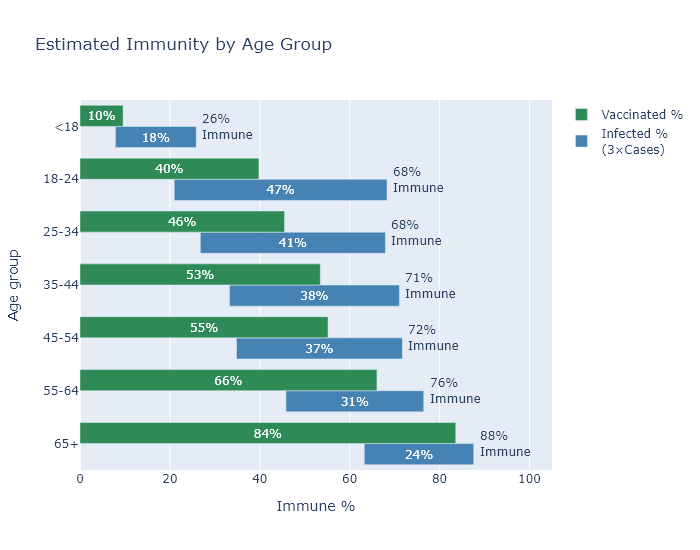
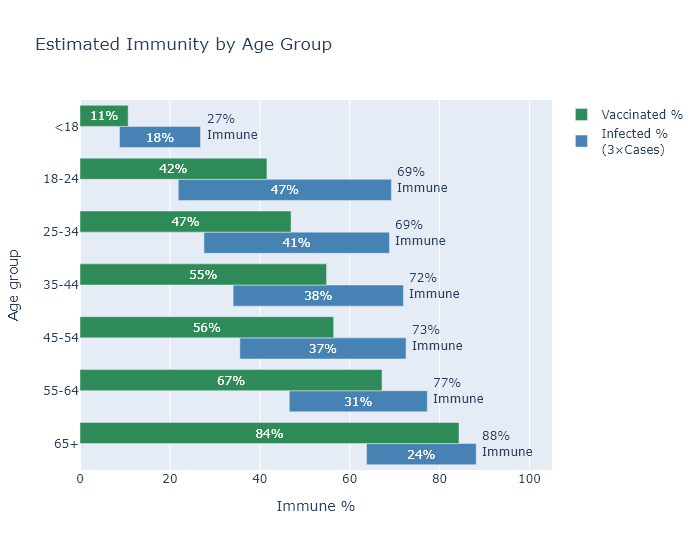
Total immunity update
Mainly to check that this script still worked after vaccine tableau updates.

diff --git a/docs/assets/plotly/Immune-Age.html b/docs/assets/plotly/Immune-Age.html
@@ -2,6 +2,6 @@
 <head><meta charset="utf-8" /></head>
 <body>
     <div>                        <script type="text/javascript">window.PlotlyConfig = {MathJaxConfig: 'local'};</script>
-        <script src="https://cdn.plot.ly/plotly-latest.min.js"></script>                <div id="8dd0fb88-a6f3-461a-af77-f9fe43fd89b9" class="plotly-graph-div" style="height:550px; width:700px;"></div>            <script type="text/javascript">                                    window.PLOTLYENV=window.PLOTLYENV || {};                                    if (document.getElementById("8dd0fb88-a6f3-461a-af77-f9fe43fd89b9")) {                    Plotly.newPlot(                        "8dd0fb88-a6f3-461a-af77-f9fe43fd89b9",                        [{"alignmentgroup": "True", "base": [63.285488848152795, 45.911691126422916, 34.926001778865675, 33.36171671776336, 26.88652940800136, 21.08961235703292, 8.015904863475887], "hovertemplate": "=Est Infected %<br>Base=%{base}<br>Immune %=%{x}<br>Age group=%{y}<br>Label=%{text}<extra></extra>", "insidetextanchor": "middle", "legendgroup": "Est Infected %", "marker": {"color": "steelblue"}, "name": "Infected %<br>(3&times;Cases)", "offsetgroup": "Est Infected %", "orientation": "h", "showlegend": true, "text": ["24%", "31%", "37%", "38%", "41%", "47%", "18%"], "textposition": "inside", "type": "bar", "x": [24.349247374242076, 30.6588867525126, 36.91166186797313, 37.84033839280215, 41.1984023110882, 47.35395972685324, 17.998166868764898], "xaxis": "x", "y": ["65+", "55-64", "45-54", "35-44", "25-34", "18-24", "<18"], "yaxis": "y"}, {"alignmentgroup": "True", "base": [0.0, 0.0, 0.0, 0.0, 0.0, 0.0, 0.0], "hovertemplate": "=Vaccinated %<br>Base=%{base}<br>Immune %=%{x}<br>Age group=%{y}<br>Label=%{text}<extra></extra>", "insidetextanchor": "middle", "legendgroup": "Vaccinated %", "marker": {"color": "seagreen"}, "name": "Vaccinated %", "offsetgroup": "Vaccinated %", "orientation": "h", "showlegend": true, "text": ["84%", "66%", "55%", "54%", "46%", "40%", "10%"], "textposition": "inside", "type": "bar", "x": [83.65480401923332, 66.21135568239026, 55.36047201905204, 53.67100761999676, 45.72414775231753, 40.05925658912305, 9.775275207137497], "xaxis": "x", "y": ["65+", "55-64", "45-54", "35-44", "25-34", "18-24", "<18"], "yaxis": "y"}],                        {"annotations": [{"align": "left", "showarrow": false, "text": "26%<br>Immune", "x": 33.01407173224078, "y": "<18"}, {"align": "left", "showarrow": false, "text": "68%<br>Immune", "x": 75.44357208388615, "y": "18-24"}, {"align": "left", "showarrow": false, "text": "68%<br>Immune", "x": 75.08493171908955, "y": "25-34"}, {"align": "left", "showarrow": false, "text": "71%<br>Immune", "x": 78.20205511056551, "y": "35-44"}, {"align": "left", "showarrow": false, "text": "72%<br>Immune", "x": 78.8376636468388, "y": "45-54"}, {"align": "left", "showarrow": false, "text": "77%<br>Immune", "x": 83.57057787893552, "y": "55-64"}, {"align": "left", "showarrow": false, "text": "88%<br>Immune", "x": 94.63473622239488, "y": "65+"}], "barmode": "group", "height": 550, "legend": {"title": {"text": ""}, "tracegroupgap": 0, "traceorder": "reversed"}, "showlegend": true, "template": {"data": {"bar": [{"error_x": {"color": "#2a3f5f"}, "error_y": {"color": "#2a3f5f"}, "marker": {"line": {"color": "#E5ECF6", "width": 0.5}}, "type": "bar"}], "barpolar": [{"marker": {"line": {"color": "#E5ECF6", "width": 0.5}}, "type": "barpolar"}], "carpet": [{"aaxis": {"endlinecolor": "#2a3f5f", "gridcolor": "white", "linecolor": "white", "minorgridcolor": "white", "startlinecolor": "#2a3f5f"}, "baxis": {"endlinecolor": "#2a3f5f", "gridcolor": "white", "linecolor": "white", "minorgridcolor": "white", "startlinecolor": "#2a3f5f"}, "type": "carpet"}], "choropleth": [{"colorbar": {"outlinewidth": 0, "ticks": ""}, "type": "choropleth"}], "contour": [{"colorbar": {"outlinewidth": 0, "ticks": ""}, "colorscale": [[0.0, "#0d0887"], [0.1111111111111111, "#46039f"], [0.2222222222222222, "#7201a8"], [0.3333333333333333, "#9c179e"], [0.4444444444444444, "#bd3786"], [0.5555555555555556, "#d8576b"], [0.6666666666666666, "#ed7953"], [0.7777777777777778, "#fb9f3a"], [0.8888888888888888, "#fdca26"], [1.0, "#f0f921"]], "type": "contour"}], "contourcarpet": [{"colorbar": {"outlinewidth": 0, "ticks": ""}, "type": "contourcarpet"}], "heatmap": [{"colorbar": {"outlinewidth": 0, "ticks": ""}, "colorscale": [[0.0, "#0d0887"], [0.1111111111111111, "#46039f"], [0.2222222222222222, "#7201a8"], [0.3333333333333333, "#9c179e"], [0.4444444444444444, "#bd3786"], [0.5555555555555556, "#d8576b"], [0.6666666666666666, "#ed7953"], [0.7777777777777778, "#fb9f3a"], [0.8888888888888888, "#fdca26"], [1.0, "#f0f921"]], "type": "heatmap"}], "heatmapgl": [{"colorbar": {"outlinewidth": 0, "ticks": ""}, "colorscale": [[0.0, "#0d0887"], [0.1111111111111111, "#46039f"], [0.2222222222222222, "#7201a8"], [0.3333333333333333, "#9c179e"], [0.4444444444444444, "#bd3786"], [0.5555555555555556, "#d8576b"], [0.6666666666666666, "#ed7953"], [0.7777777777777778, "#fb9f3a"], [0.8888888888888888, "#fdca26"], [1.0, "#f0f921"]], "type": "heatmapgl"}], "histogram": [{"marker": {"colorbar": {"outlinewidth": 0, "ticks": ""}}, "type": "histogram"}], "histogram2d": [{"colorbar": {"outlinewidth": 0, "ticks": ""}, "colorscale": [[0.0, "#0d0887"], [0.1111111111111111, "#46039f"], [0.2222222222222222, "#7201a8"], [0.3333333333333333, "#9c179e"], [0.4444444444444444, "#bd3786"], [0.5555555555555556, "#d8576b"], [0.6666666666666666, "#ed7953"], [0.7777777777777778, "#fb9f3a"], [0.8888888888888888, "#fdca26"], [1.0, "#f0f921"]], "type": "histogram2d"}], "histogram2dcontour": [{"colorbar": {"outlinewidth": 0, "ticks": ""}, "colorscale": [[0.0, "#0d0887"], [0.1111111111111111, "#46039f"], [0.2222222222222222, "#7201a8"], [0.3333333333333333, "#9c179e"], [0.4444444444444444, "#bd3786"], [0.5555555555555556, "#d8576b"], [0.6666666666666666, "#ed7953"], [0.7777777777777778, "#fb9f3a"], [0.8888888888888888, "#fdca26"], [1.0, "#f0f921"]], "type": "histogram2dcontour"}], "mesh3d": [{"colorbar": {"outlinewidth": 0, "ticks": ""}, "type": "mesh3d"}], "parcoords": [{"line": {"colorbar": {"outlinewidth": 0, "ticks": ""}}, "type": "parcoords"}], "pie": [{"automargin": true, "type": "pie"}], "scatter": [{"marker": {"colorbar": {"outlinewidth": 0, "ticks": ""}}, "type": "scatter"}], "scatter3d": [{"line": {"colorbar": {"outlinewidth": 0, "ticks": ""}}, "marker": {"colorbar": {"outlinewidth": 0, "ticks": ""}}, "type": "scatter3d"}], "scattercarpet": [{"marker": {"colorbar": {"outlinewidth": 0, "ticks": ""}}, "type": "scattercarpet"}], "scattergeo": [{"marker": {"colorbar": {"outlinewidth": 0, "ticks": ""}}, "type": "scattergeo"}], "scattergl": [{"marker": {"colorbar": {"outlinewidth": 0, "ticks": ""}}, "type": "scattergl"}], "scattermapbox": [{"marker": {"colorbar": {"outlinewidth": 0, "ticks": ""}}, "type": "scattermapbox"}], "scatterpolar": [{"marker": {"colorbar": {"outlinewidth": 0, "ticks": ""}}, "type": "scatterpolar"}], "scatterpolargl": [{"marker": {"colorbar": {"outlinewidth": 0, "ticks": ""}}, "type": "scatterpolargl"}], "scatterternary": [{"marker": {"colorbar": {"outlinewidth": 0, "ticks": ""}}, "type": "scatterternary"}], "surface": [{"colorbar": {"outlinewidth": 0, "ticks": ""}, "colorscale": [[0.0, "#0d0887"], [0.1111111111111111, "#46039f"], [0.2222222222222222, "#7201a8"], [0.3333333333333333, "#9c179e"], [0.4444444444444444, "#bd3786"], [0.5555555555555556, "#d8576b"], [0.6666666666666666, "#ed7953"], [0.7777777777777778, "#fb9f3a"], [0.8888888888888888, "#fdca26"], [1.0, "#f0f921"]], "type": "surface"}], "table": [{"cells": {"fill": {"color": "#EBF0F8"}, "line": {"color": "white"}}, "header": {"fill": {"color": "#C8D4E3"}, "line": {"color": "white"}}, "type": "table"}]}, "layout": {"annotationdefaults": {"arrowcolor": "#2a3f5f", "arrowhead": 0, "arrowwidth": 1}, "autotypenumbers": "strict", "coloraxis": {"colorbar": {"outlinewidth": 0, "ticks": ""}}, "colorscale": {"diverging": [[0, "#8e0152"], [0.1, "#c51b7d"], [0.2, "#de77ae"], [0.3, "#f1b6da"], [0.4, "#fde0ef"], [0.5, "#f7f7f7"], [0.6, "#e6f5d0"], [0.7, "#b8e186"], [0.8, "#7fbc41"], [0.9, "#4d9221"], [1, "#276419"]], "sequential": [[0.0, "#0d0887"], [0.1111111111111111, "#46039f"], [0.2222222222222222, "#7201a8"], [0.3333333333333333, "#9c179e"], [0.4444444444444444, "#bd3786"], [0.5555555555555556, "#d8576b"], [0.6666666666666666, "#ed7953"], [0.7777777777777778, "#fb9f3a"], [0.8888888888888888, "#fdca26"], [1.0, "#f0f921"]], "sequentialminus": [[0.0, "#0d0887"], [0.1111111111111111, "#46039f"], [0.2222222222222222, "#7201a8"], [0.3333333333333333, "#9c179e"], [0.4444444444444444, "#bd3786"], [0.5555555555555556, "#d8576b"], [0.6666666666666666, "#ed7953"], [0.7777777777777778, "#fb9f3a"], [0.8888888888888888, "#fdca26"], [1.0, "#f0f921"]]}, "colorway": ["#636efa", "#EF553B", "#00cc96", "#ab63fa", "#FFA15A", "#19d3f3", "#FF6692", "#B6E880", "#FF97FF", "#FECB52"], "font": {"color": "#2a3f5f"}, "geo": {"bgcolor": "white", "lakecolor": "white", "landcolor": "#E5ECF6", "showlakes": true, "showland": true, "subunitcolor": "white"}, "hoverlabel": {"align": "left"}, "hovermode": "closest", "mapbox": {"style": "light"}, "paper_bgcolor": "white", "plot_bgcolor": "#E5ECF6", "polar": {"angularaxis": {"gridcolor": "white", "linecolor": "white", "ticks": ""}, "bgcolor": "#E5ECF6", "radialaxis": {"gridcolor": "white", "linecolor": "white", "ticks": ""}}, "scene": {"xaxis": {"backgroundcolor": "#E5ECF6", "gridcolor": "white", "gridwidth": 2, "linecolor": "white", "showbackground": true, "ticks": "", "zerolinecolor": "white"}, "yaxis": {"backgroundcolor": "#E5ECF6", "gridcolor": "white", "gridwidth": 2, "linecolor": "white", "showbackground": true, "ticks": "", "zerolinecolor": "white"}, "zaxis": {"backgroundcolor": "#E5ECF6", "gridcolor": "white", "gridwidth": 2, "linecolor": "white", "showbackground": true, "ticks": "", "zerolinecolor": "white"}}, "shapedefaults": {"line": {"color": "#2a3f5f"}}, "ternary": {"aaxis": {"gridcolor": "white", "linecolor": "white", "ticks": ""}, "baxis": {"gridcolor": "white", "linecolor": "white", "ticks": ""}, "bgcolor": "#E5ECF6", "caxis": {"gridcolor": "white", "linecolor": "white", "ticks": ""}}, "title": {"x": 0.05}, "xaxis": {"automargin": true, "gridcolor": "white", "linecolor": "white", "ticks": "", "title": {"standoff": 15}, "zerolinecolor": "white", "zerolinewidth": 2}, "yaxis": {"automargin": true, "gridcolor": "white", "linecolor": "white", "ticks": "", "title": {"standoff": 15}, "zerolinecolor": "white", "zerolinewidth": 2}}}, "title": {"text": "Estimated Immunity by Age Group"}, "width": 700, "xaxis": {"anchor": "y", "domain": [0.0, 1.0], "range": [0, 105], "title": {"text": "Immune %"}}, "yaxis": {"anchor": "x", "domain": [0.0, 1.0], "title": {"text": "Age group"}}},                        {"responsive": true}                    )                };                            </script>        </div>
+        <script src="https://cdn.plot.ly/plotly-latest.min.js"></script>                <div id="859271d1-c069-409f-8916-3b5618563207" class="plotly-graph-div" style="height:550px; width:700px;"></div>            <script type="text/javascript">                                    window.PLOTLYENV=window.PLOTLYENV || {};                                    if (document.getElementById("859271d1-c069-409f-8916-3b5618563207")) {                    Plotly.newPlot(                        "859271d1-c069-409f-8916-3b5618563207",                        [{"alignmentgroup": "True", "base": [63.74956606057296, 46.55549963129962, 35.56101109285799, 34.06093035141341, 27.57086367717433, 21.867434269108653, 8.784167872636155], "hovertemplate": "=Est Infected %<br>Base=%{base}<br>Immune %=%{x}<br>Age group=%{y}<br>Label=%{text}<extra></extra>", "insidetextanchor": "middle", "legendgroup": "Est Infected %", "marker": {"color": "steelblue"}, "name": "Infected %<br>(3&times;Cases)", "offsetgroup": "Est Infected %", "orientation": "h", "showlegend": true, "text": ["24%", "31%", "37%", "38%", "41%", "47%", "18%"], "textposition": "inside", "type": "bar", "x": [24.391604634197996, 30.70874451837519, 36.972137918761895, 37.900385758836336, 41.275709839078274, 47.41740951967587, 18.03164763355105], "xaxis": "x", "y": ["65+", "55-64", "45-54", "35-44", "25-34", "18-24", "<18"], "yaxis": "y"}, {"alignmentgroup": "True", "base": [0.0, 0.0, 0.0, 0.0, 0.0, 0.0, 0.0], "hovertemplate": "=Vaccinated %<br>Base=%{base}<br>Immune %=%{x}<br>Age group=%{y}<br>Label=%{text}<extra></extra>", "insidetextanchor": "middle", "legendgroup": "Vaccinated %", "marker": {"color": "seagreen"}, "name": "Vaccinated %", "offsetgroup": "Vaccinated %", "orientation": "h", "showlegend": true, "text": ["84%", "67%", "56%", "55%", "47%", "42%", "11%"], "textposition": "inside", "type": "bar", "x": [84.31545961549021, 67.18813118293919, 56.4210968270232, 54.8488597998981, 46.9496755118233, 41.58683334038331, 10.716535856870127], "xaxis": "x", "y": ["65+", "55-64", "45-54", "35-44", "25-34", "18-24", "<18"], "yaxis": "y"}],                        {"annotations": [{"align": "left", "showarrow": false, "text": "27%<br>Immune", "x": 33.81581550618721, "y": "<18"}, {"align": "left", "showarrow": false, "text": "69%<br>Immune", "x": 76.28484378878453, "y": "18-24"}, {"align": "left", "showarrow": false, "text": "69%<br>Immune", "x": 75.8465735162526, "y": "25-34"}, {"align": "left", "showarrow": false, "text": "72%<br>Immune", "x": 78.96131611024975, "y": "35-44"}, {"align": "left", "showarrow": false, "text": "73%<br>Immune", "x": 79.53314901161988, "y": "45-54"}, {"align": "left", "showarrow": false, "text": "77%<br>Immune", "x": 84.26424414967481, "y": "55-64"}, {"align": "left", "showarrow": false, "text": "88%<br>Immune", "x": 95.14117069477096, "y": "65+"}], "barmode": "group", "height": 550, "legend": {"title": {"text": ""}, "tracegroupgap": 0, "traceorder": "reversed"}, "showlegend": true, "template": {"data": {"bar": [{"error_x": {"color": "#2a3f5f"}, "error_y": {"color": "#2a3f5f"}, "marker": {"line": {"color": "#E5ECF6", "width": 0.5}}, "type": "bar"}], "barpolar": [{"marker": {"line": {"color": "#E5ECF6", "width": 0.5}}, "type": "barpolar"}], "carpet": [{"aaxis": {"endlinecolor": "#2a3f5f", "gridcolor": "white", "linecolor": "white", "minorgridcolor": "white", "startlinecolor": "#2a3f5f"}, "baxis": {"endlinecolor": "#2a3f5f", "gridcolor": "white", "linecolor": "white", "minorgridcolor": "white", "startlinecolor": "#2a3f5f"}, "type": "carpet"}], "choropleth": [{"colorbar": {"outlinewidth": 0, "ticks": ""}, "type": "choropleth"}], "contour": [{"colorbar": {"outlinewidth": 0, "ticks": ""}, "colorscale": [[0.0, "#0d0887"], [0.1111111111111111, "#46039f"], [0.2222222222222222, "#7201a8"], [0.3333333333333333, "#9c179e"], [0.4444444444444444, "#bd3786"], [0.5555555555555556, "#d8576b"], [0.6666666666666666, "#ed7953"], [0.7777777777777778, "#fb9f3a"], [0.8888888888888888, "#fdca26"], [1.0, "#f0f921"]], "type": "contour"}], "contourcarpet": [{"colorbar": {"outlinewidth": 0, "ticks": ""}, "type": "contourcarpet"}], "heatmap": [{"colorbar": {"outlinewidth": 0, "ticks": ""}, "colorscale": [[0.0, "#0d0887"], [0.1111111111111111, "#46039f"], [0.2222222222222222, "#7201a8"], [0.3333333333333333, "#9c179e"], [0.4444444444444444, "#bd3786"], [0.5555555555555556, "#d8576b"], [0.6666666666666666, "#ed7953"], [0.7777777777777778, "#fb9f3a"], [0.8888888888888888, "#fdca26"], [1.0, "#f0f921"]], "type": "heatmap"}], "heatmapgl": [{"colorbar": {"outlinewidth": 0, "ticks": ""}, "colorscale": [[0.0, "#0d0887"], [0.1111111111111111, "#46039f"], [0.2222222222222222, "#7201a8"], [0.3333333333333333, "#9c179e"], [0.4444444444444444, "#bd3786"], [0.5555555555555556, "#d8576b"], [0.6666666666666666, "#ed7953"], [0.7777777777777778, "#fb9f3a"], [0.8888888888888888, "#fdca26"], [1.0, "#f0f921"]], "type": "heatmapgl"}], "histogram": [{"marker": {"colorbar": {"outlinewidth": 0, "ticks": ""}}, "type": "histogram"}], "histogram2d": [{"colorbar": {"outlinewidth": 0, "ticks": ""}, "colorscale": [[0.0, "#0d0887"], [0.1111111111111111, "#46039f"], [0.2222222222222222, "#7201a8"], [0.3333333333333333, "#9c179e"], [0.4444444444444444, "#bd3786"], [0.5555555555555556, "#d8576b"], [0.6666666666666666, "#ed7953"], [0.7777777777777778, "#fb9f3a"], [0.8888888888888888, "#fdca26"], [1.0, "#f0f921"]], "type": "histogram2d"}], "histogram2dcontour": [{"colorbar": {"outlinewidth": 0, "ticks": ""}, "colorscale": [[0.0, "#0d0887"], [0.1111111111111111, "#46039f"], [0.2222222222222222, "#7201a8"], [0.3333333333333333, "#9c179e"], [0.4444444444444444, "#bd3786"], [0.5555555555555556, "#d8576b"], [0.6666666666666666, "#ed7953"], [0.7777777777777778, "#fb9f3a"], [0.8888888888888888, "#fdca26"], [1.0, "#f0f921"]], "type": "histogram2dcontour"}], "mesh3d": [{"colorbar": {"outlinewidth": 0, "ticks": ""}, "type": "mesh3d"}], "parcoords": [{"line": {"colorbar": {"outlinewidth": 0, "ticks": ""}}, "type": "parcoords"}], "pie": [{"automargin": true, "type": "pie"}], "scatter": [{"marker": {"colorbar": {"outlinewidth": 0, "ticks": ""}}, "type": "scatter"}], "scatter3d": [{"line": {"colorbar": {"outlinewidth": 0, "ticks": ""}}, "marker": {"colorbar": {"outlinewidth": 0, "ticks": ""}}, "type": "scatter3d"}], "scattercarpet": [{"marker": {"colorbar": {"outlinewidth": 0, "ticks": ""}}, "type": "scattercarpet"}], "scattergeo": [{"marker": {"colorbar": {"outlinewidth": 0, "ticks": ""}}, "type": "scattergeo"}], "scattergl": [{"marker": {"colorbar": {"outlinewidth": 0, "ticks": ""}}, "type": "scattergl"}], "scattermapbox": [{"marker": {"colorbar": {"outlinewidth": 0, "ticks": ""}}, "type": "scattermapbox"}], "scatterpolar": [{"marker": {"colorbar": {"outlinewidth": 0, "ticks": ""}}, "type": "scatterpolar"}], "scatterpolargl": [{"marker": {"colorbar": {"outlinewidth": 0, "ticks": ""}}, "type": "scatterpolargl"}], "scatterternary": [{"marker": {"colorbar": {"outlinewidth": 0, "ticks": ""}}, "type": "scatterternary"}], "surface": [{"colorbar": {"outlinewidth": 0, "ticks": ""}, "colorscale": [[0.0, "#0d0887"], [0.1111111111111111, "#46039f"], [0.2222222222222222, "#7201a8"], [0.3333333333333333, "#9c179e"], [0.4444444444444444, "#bd3786"], [0.5555555555555556, "#d8576b"], [0.6666666666666666, "#ed7953"], [0.7777777777777778, "#fb9f3a"], [0.8888888888888888, "#fdca26"], [1.0, "#f0f921"]], "type": "surface"}], "table": [{"cells": {"fill": {"color": "#EBF0F8"}, "line": {"color": "white"}}, "header": {"fill": {"color": "#C8D4E3"}, "line": {"color": "white"}}, "type": "table"}]}, "layout": {"annotationdefaults": {"arrowcolor": "#2a3f5f", "arrowhead": 0, "arrowwidth": 1}, "coloraxis": {"colorbar": {"outlinewidth": 0, "ticks": ""}}, "colorscale": {"diverging": [[0, "#8e0152"], [0.1, "#c51b7d"], [0.2, "#de77ae"], [0.3, "#f1b6da"], [0.4, "#fde0ef"], [0.5, "#f7f7f7"], [0.6, "#e6f5d0"], [0.7, "#b8e186"], [0.8, "#7fbc41"], [0.9, "#4d9221"], [1, "#276419"]], "sequential": [[0.0, "#0d0887"], [0.1111111111111111, "#46039f"], [0.2222222222222222, "#7201a8"], [0.3333333333333333, "#9c179e"], [0.4444444444444444, "#bd3786"], [0.5555555555555556, "#d8576b"], [0.6666666666666666, "#ed7953"], [0.7777777777777778, "#fb9f3a"], [0.8888888888888888, "#fdca26"], [1.0, "#f0f921"]], "sequentialminus": [[0.0, "#0d0887"], [0.1111111111111111, "#46039f"], [0.2222222222222222, "#7201a8"], [0.3333333333333333, "#9c179e"], [0.4444444444444444, "#bd3786"], [0.5555555555555556, "#d8576b"], [0.6666666666666666, "#ed7953"], [0.7777777777777778, "#fb9f3a"], [0.8888888888888888, "#fdca26"], [1.0, "#f0f921"]]}, "colorway": ["#636efa", "#EF553B", "#00cc96", "#ab63fa", "#FFA15A", "#19d3f3", "#FF6692", "#B6E880", "#FF97FF", "#FECB52"], "font": {"color": "#2a3f5f"}, "geo": {"bgcolor": "white", "lakecolor": "white", "landcolor": "#E5ECF6", "showlakes": true, "showland": true, "subunitcolor": "white"}, "hoverlabel": {"align": "left"}, "hovermode": "closest", "mapbox": {"style": "light"}, "paper_bgcolor": "white", "plot_bgcolor": "#E5ECF6", "polar": {"angularaxis": {"gridcolor": "white", "linecolor": "white", "ticks": ""}, "bgcolor": "#E5ECF6", "radialaxis": {"gridcolor": "white", "linecolor": "white", "ticks": ""}}, "scene": {"xaxis": {"backgroundcolor": "#E5ECF6", "gridcolor": "white", "gridwidth": 2, "linecolor": "white", "showbackground": true, "ticks": "", "zerolinecolor": "white"}, "yaxis": {"backgroundcolor": "#E5ECF6", "gridcolor": "white", "gridwidth": 2, "linecolor": "white", "showbackground": true, "ticks": "", "zerolinecolor": "white"}, "zaxis": {"backgroundcolor": "#E5ECF6", "gridcolor": "white", "gridwidth": 2, "linecolor": "white", "showbackground": true, "ticks": "", "zerolinecolor": "white"}}, "shapedefaults": {"line": {"color": "#2a3f5f"}}, "ternary": {"aaxis": {"gridcolor": "white", "linecolor": "white", "ticks": ""}, "baxis": {"gridcolor": "white", "linecolor": "white", "ticks": ""}, "bgcolor": "#E5ECF6", "caxis": {"gridcolor": "white", "linecolor": "white", "ticks": ""}}, "title": {"x": 0.05}, "xaxis": {"automargin": true, "gridcolor": "white", "linecolor": "white", "ticks": "", "title": {"standoff": 15}, "zerolinecolor": "white", "zerolinewidth": 2}, "yaxis": {"automargin": true, "gridcolor": "white", "linecolor": "white", "ticks": "", "title": {"standoff": 15}, "zerolinecolor": "white", "zerolinewidth": 2}}}, "title": {"text": "Estimated Immunity by Age Group"}, "width": 700, "xaxis": {"anchor": "y", "domain": [0.0, 1.0], "range": [0, 105], "title": {"text": "Immune %"}}, "yaxis": {"anchor": "x", "domain": [0.0, 1.0], "title": {"text": "Age group"}}},                        {"responsive": true}                    )                };                            </script>        </div>
 </body>
 </html>

diff --git a/docs/assets/plotly/Immune-Total.html b/docs/assets/plotly/Immune-Total.html
@@ -2,6 +2,6 @@
 <head><meta charset="utf-8" /></head>
 <body>
     <div>                        <script type="text/javascript">window.PlotlyConfig = {MathJaxConfig: 'local'};</script>
-        <script src="https://cdn.plot.ly/plotly-latest.min.js"></script>                <div id="008094e8-774f-4e5a-8d4c-feb603b007c4" class="plotly-graph-div" style="height:250px; width:700px;"></div>            <script type="text/javascript">                                    window.PLOTLYENV=window.PLOTLYENV || {};                                    if (document.getElementById("008094e8-774f-4e5a-8d4c-feb603b007c4")) {                    Plotly.newPlot(                        "008094e8-774f-4e5a-8d4c-feb603b007c4",                        [{"alignmentgroup": "True", "base": [33.70865764420632], "hovertemplate": "=Est Infected %<br>Base=%{base}<br>Immune %=%{x}<br>Age group=%{y}<br>Label=%{text}<extra></extra>", "insidetextanchor": "middle", "legendgroup": "Est Infected %", "marker": {"color": "steelblue"}, "name": "Infected %<br>(3&times;Cases)", "offsetgroup": "Est Infected %", "orientation": "h", "showlegend": true, "text": ["31%"], "textposition": "inside", "type": "bar", "x": [31.35379465014116], "xaxis": "x", "y": [" "], "yaxis": "y"}, {"alignmentgroup": "True", "base": [0.0], "hovertemplate": "=Vaccinated %<br>Base=%{base}<br>Immune %=%{x}<br>Age group=%{y}<br>Label=%{text}<extra></extra>", "insidetextanchor": "middle", "legendgroup": "Vaccinated %", "marker": {"color": "seagreen"}, "name": "Vaccinated %", "offsetgroup": "Vaccinated %", "orientation": "h", "showlegend": true, "text": ["49%"], "textposition": "inside", "type": "bar", "x": [49.104910420624776], "xaxis": "x", "y": [" "], "yaxis": "y"}],                        {"annotations": [{"align": "left", "showarrow": false, "text": "65%<br>Immune", "x": 72.06245229434748, "y": " "}], "barmode": "group", "height": 250, "legend": {"title": {"text": ""}, "tracegroupgap": 0, "traceorder": "reversed"}, "showlegend": true, "template": {"data": {"bar": [{"error_x": {"color": "#2a3f5f"}, "error_y": {"color": "#2a3f5f"}, "marker": {"line": {"color": "#E5ECF6", "width": 0.5}}, "type": "bar"}], "barpolar": [{"marker": {"line": {"color": "#E5ECF6", "width": 0.5}}, "type": "barpolar"}], "carpet": [{"aaxis": {"endlinecolor": "#2a3f5f", "gridcolor": "white", "linecolor": "white", "minorgridcolor": "white", "startlinecolor": "#2a3f5f"}, "baxis": {"endlinecolor": "#2a3f5f", "gridcolor": "white", "linecolor": "white", "minorgridcolor": "white", "startlinecolor": "#2a3f5f"}, "type": "carpet"}], "choropleth": [{"colorbar": {"outlinewidth": 0, "ticks": ""}, "type": "choropleth"}], "contour": [{"colorbar": {"outlinewidth": 0, "ticks": ""}, "colorscale": [[0.0, "#0d0887"], [0.1111111111111111, "#46039f"], [0.2222222222222222, "#7201a8"], [0.3333333333333333, "#9c179e"], [0.4444444444444444, "#bd3786"], [0.5555555555555556, "#d8576b"], [0.6666666666666666, "#ed7953"], [0.7777777777777778, "#fb9f3a"], [0.8888888888888888, "#fdca26"], [1.0, "#f0f921"]], "type": "contour"}], "contourcarpet": [{"colorbar": {"outlinewidth": 0, "ticks": ""}, "type": "contourcarpet"}], "heatmap": [{"colorbar": {"outlinewidth": 0, "ticks": ""}, "colorscale": [[0.0, "#0d0887"], [0.1111111111111111, "#46039f"], [0.2222222222222222, "#7201a8"], [0.3333333333333333, "#9c179e"], [0.4444444444444444, "#bd3786"], [0.5555555555555556, "#d8576b"], [0.6666666666666666, "#ed7953"], [0.7777777777777778, "#fb9f3a"], [0.8888888888888888, "#fdca26"], [1.0, "#f0f921"]], "type": "heatmap"}], "heatmapgl": [{"colorbar": {"outlinewidth": 0, "ticks": ""}, "colorscale": [[0.0, "#0d0887"], [0.1111111111111111, "#46039f"], [0.2222222222222222, "#7201a8"], [0.3333333333333333, "#9c179e"], [0.4444444444444444, "#bd3786"], [0.5555555555555556, "#d8576b"], [0.6666666666666666, "#ed7953"], [0.7777777777777778, "#fb9f3a"], [0.8888888888888888, "#fdca26"], [1.0, "#f0f921"]], "type": "heatmapgl"}], "histogram": [{"marker": {"colorbar": {"outlinewidth": 0, "ticks": ""}}, "type": "histogram"}], "histogram2d": [{"colorbar": {"outlinewidth": 0, "ticks": ""}, "colorscale": [[0.0, "#0d0887"], [0.1111111111111111, "#46039f"], [0.2222222222222222, "#7201a8"], [0.3333333333333333, "#9c179e"], [0.4444444444444444, "#bd3786"], [0.5555555555555556, "#d8576b"], [0.6666666666666666, "#ed7953"], [0.7777777777777778, "#fb9f3a"], [0.8888888888888888, "#fdca26"], [1.0, "#f0f921"]], "type": "histogram2d"}], "histogram2dcontour": [{"colorbar": {"outlinewidth": 0, "ticks": ""}, "colorscale": [[0.0, "#0d0887"], [0.1111111111111111, "#46039f"], [0.2222222222222222, "#7201a8"], [0.3333333333333333, "#9c179e"], [0.4444444444444444, "#bd3786"], [0.5555555555555556, "#d8576b"], [0.6666666666666666, "#ed7953"], [0.7777777777777778, "#fb9f3a"], [0.8888888888888888, "#fdca26"], [1.0, "#f0f921"]], "type": "histogram2dcontour"}], "mesh3d": [{"colorbar": {"outlinewidth": 0, "ticks": ""}, "type": "mesh3d"}], "parcoords": [{"line": {"colorbar": {"outlinewidth": 0, "ticks": ""}}, "type": "parcoords"}], "pie": [{"automargin": true, "type": "pie"}], "scatter": [{"marker": {"colorbar": {"outlinewidth": 0, "ticks": ""}}, "type": "scatter"}], "scatter3d": [{"line": {"colorbar": {"outlinewidth": 0, "ticks": ""}}, "marker": {"colorbar": {"outlinewidth": 0, "ticks": ""}}, "type": "scatter3d"}], "scattercarpet": [{"marker": {"colorbar": {"outlinewidth": 0, "ticks": ""}}, "type": "scattercarpet"}], "scattergeo": [{"marker": {"colorbar": {"outlinewidth": 0, "ticks": ""}}, "type": "scattergeo"}], "scattergl": [{"marker": {"colorbar": {"outlinewidth": 0, "ticks": ""}}, "type": "scattergl"}], "scattermapbox": [{"marker": {"colorbar": {"outlinewidth": 0, "ticks": ""}}, "type": "scattermapbox"}], "scatterpolar": [{"marker": {"colorbar": {"outlinewidth": 0, "ticks": ""}}, "type": "scatterpolar"}], "scatterpolargl": [{"marker": {"colorbar": {"outlinewidth": 0, "ticks": ""}}, "type": "scatterpolargl"}], "scatterternary": [{"marker": {"colorbar": {"outlinewidth": 0, "ticks": ""}}, "type": "scatterternary"}], "surface": [{"colorbar": {"outlinewidth": 0, "ticks": ""}, "colorscale": [[0.0, "#0d0887"], [0.1111111111111111, "#46039f"], [0.2222222222222222, "#7201a8"], [0.3333333333333333, "#9c179e"], [0.4444444444444444, "#bd3786"], [0.5555555555555556, "#d8576b"], [0.6666666666666666, "#ed7953"], [0.7777777777777778, "#fb9f3a"], [0.8888888888888888, "#fdca26"], [1.0, "#f0f921"]], "type": "surface"}], "table": [{"cells": {"fill": {"color": "#EBF0F8"}, "line": {"color": "white"}}, "header": {"fill": {"color": "#C8D4E3"}, "line": {"color": "white"}}, "type": "table"}]}, "layout": {"annotationdefaults": {"arrowcolor": "#2a3f5f", "arrowhead": 0, "arrowwidth": 1}, "autotypenumbers": "strict", "coloraxis": {"colorbar": {"outlinewidth": 0, "ticks": ""}}, "colorscale": {"diverging": [[0, "#8e0152"], [0.1, "#c51b7d"], [0.2, "#de77ae"], [0.3, "#f1b6da"], [0.4, "#fde0ef"], [0.5, "#f7f7f7"], [0.6, "#e6f5d0"], [0.7, "#b8e186"], [0.8, "#7fbc41"], [0.9, "#4d9221"], [1, "#276419"]], "sequential": [[0.0, "#0d0887"], [0.1111111111111111, "#46039f"], [0.2222222222222222, "#7201a8"], [0.3333333333333333, "#9c179e"], [0.4444444444444444, "#bd3786"], [0.5555555555555556, "#d8576b"], [0.6666666666666666, "#ed7953"], [0.7777777777777778, "#fb9f3a"], [0.8888888888888888, "#fdca26"], [1.0, "#f0f921"]], "sequentialminus": [[0.0, "#0d0887"], [0.1111111111111111, "#46039f"], [0.2222222222222222, "#7201a8"], [0.3333333333333333, "#9c179e"], [0.4444444444444444, "#bd3786"], [0.5555555555555556, "#d8576b"], [0.6666666666666666, "#ed7953"], [0.7777777777777778, "#fb9f3a"], [0.8888888888888888, "#fdca26"], [1.0, "#f0f921"]]}, "colorway": ["#636efa", "#EF553B", "#00cc96", "#ab63fa", "#FFA15A", "#19d3f3", "#FF6692", "#B6E880", "#FF97FF", "#FECB52"], "font": {"color": "#2a3f5f"}, "geo": {"bgcolor": "white", "lakecolor": "white", "landcolor": "#E5ECF6", "showlakes": true, "showland": true, "subunitcolor": "white"}, "hoverlabel": {"align": "left"}, "hovermode": "closest", "mapbox": {"style": "light"}, "paper_bgcolor": "white", "plot_bgcolor": "#E5ECF6", "polar": {"angularaxis": {"gridcolor": "white", "linecolor": "white", "ticks": ""}, "bgcolor": "#E5ECF6", "radialaxis": {"gridcolor": "white", "linecolor": "white", "ticks": ""}}, "scene": {"xaxis": {"backgroundcolor": "#E5ECF6", "gridcolor": "white", "gridwidth": 2, "linecolor": "white", "showbackground": true, "ticks": "", "zerolinecolor": "white"}, "yaxis": {"backgroundcolor": "#E5ECF6", "gridcolor": "white", "gridwidth": 2, "linecolor": "white", "showbackground": true, "ticks": "", "zerolinecolor": "white"}, "zaxis": {"backgroundcolor": "#E5ECF6", "gridcolor": "white", "gridwidth": 2, "linecolor": "white", "showbackground": true, "ticks": "", "zerolinecolor": "white"}}, "shapedefaults": {"line": {"color": "#2a3f5f"}}, "ternary": {"aaxis": {"gridcolor": "white", "linecolor": "white", "ticks": ""}, "baxis": {"gridcolor": "white", "linecolor": "white", "ticks": ""}, "bgcolor": "#E5ECF6", "caxis": {"gridcolor": "white", "linecolor": "white", "ticks": ""}}, "title": {"x": 0.05}, "xaxis": {"automargin": true, "gridcolor": "white", "linecolor": "white", "ticks": "", "title": {"standoff": 15}, "zerolinecolor": "white", "zerolinewidth": 2}, "yaxis": {"automargin": true, "gridcolor": "white", "linecolor": "white", "ticks": "", "title": {"standoff": 15}, "zerolinecolor": "white", "zerolinewidth": 2}}}, "title": {"text": "Estimated Immunity in Wisconsin"}, "width": 700, "xaxis": {"anchor": "y", "domain": [0.0, 1.0], "range": [0, 105], "title": {"text": "Immune %"}}, "yaxis": {"anchor": "x", "domain": [0.0, 1.0], "title": {"text": ""}}},                        {"responsive": true}                    )                };                            </script>        </div>
+        <script src="https://cdn.plot.ly/plotly-latest.min.js"></script>                <div id="e3793a75-5e2f-4cb1-9a12-428aaa616568" class="plotly-graph-div" style="height:250px; width:700px;"></div>            <script type="text/javascript">                                    window.PLOTLYENV=window.PLOTLYENV || {};                                    if (document.getElementById("e3793a75-5e2f-4cb1-9a12-428aaa616568")) {                    Plotly.newPlot(                        "e3793a75-5e2f-4cb1-9a12-428aaa616568",                        [{"alignmentgroup": "True", "base": [34.390636073075996], "hovertemplate": "=Est Infected %<br>Base=%{base}<br>Immune %=%{x}<br>Age group=%{y}<br>Label=%{text}<extra></extra>", "insidetextanchor": "middle", "legendgroup": "Est Infected %", "marker": {"color": "steelblue"}, "name": "Infected %<br>(3&times;Cases)", "offsetgroup": "Est Infected %", "orientation": "h", "showlegend": true, "text": ["31%"], "textposition": "inside", "type": "bar", "x": [31.40609236618225], "xaxis": "x", "y": [" "], "yaxis": "y"}, {"alignmentgroup": "True", "base": [0.0], "hovertemplate": "=Vaccinated %<br>Base=%{base}<br>Immune %=%{x}<br>Age group=%{y}<br>Label=%{text}<extra></extra>", "insidetextanchor": "middle", "legendgroup": "Vaccinated %", "marker": {"color": "seagreen"}, "name": "Vaccinated %", "offsetgroup": "Vaccinated %", "orientation": "h", "showlegend": true, "text": ["50%"], "textposition": "inside", "type": "bar", "x": [50.13657518487973], "xaxis": "x", "y": [" "], "yaxis": "y"}],                        {"annotations": [{"align": "left", "showarrow": false, "text": "66%<br>Immune", "x": 72.79672843925825, "y": " "}], "barmode": "group", "height": 250, "legend": {"title": {"text": ""}, "tracegroupgap": 0, "traceorder": "reversed"}, "showlegend": true, "template": {"data": {"bar": [{"error_x": {"color": "#2a3f5f"}, "error_y": {"color": "#2a3f5f"}, "marker": {"line": {"color": "#E5ECF6", "width": 0.5}}, "type": "bar"}], "barpolar": [{"marker": {"line": {"color": "#E5ECF6", "width": 0.5}}, "type": "barpolar"}], "carpet": [{"aaxis": {"endlinecolor": "#2a3f5f", "gridcolor": "white", "linecolor": "white", "minorgridcolor": "white", "startlinecolor": "#2a3f5f"}, "baxis": {"endlinecolor": "#2a3f5f", "gridcolor": "white", "linecolor": "white", "minorgridcolor": "white", "startlinecolor": "#2a3f5f"}, "type": "carpet"}], "choropleth": [{"colorbar": {"outlinewidth": 0, "ticks": ""}, "type": "choropleth"}], "contour": [{"colorbar": {"outlinewidth": 0, "ticks": ""}, "colorscale": [[0.0, "#0d0887"], [0.1111111111111111, "#46039f"], [0.2222222222222222, "#7201a8"], [0.3333333333333333, "#9c179e"], [0.4444444444444444, "#bd3786"], [0.5555555555555556, "#d8576b"], [0.6666666666666666, "#ed7953"], [0.7777777777777778, "#fb9f3a"], [0.8888888888888888, "#fdca26"], [1.0, "#f0f921"]], "type": "contour"}], "contourcarpet": [{"colorbar": {"outlinewidth": 0, "ticks": ""}, "type": "contourcarpet"}], "heatmap": [{"colorbar": {"outlinewidth": 0, "ticks": ""}, "colorscale": [[0.0, "#0d0887"], [0.1111111111111111, "#46039f"], [0.2222222222222222, "#7201a8"], [0.3333333333333333, "#9c179e"], [0.4444444444444444, "#bd3786"], [0.5555555555555556, "#d8576b"], [0.6666666666666666, "#ed7953"], [0.7777777777777778, "#fb9f3a"], [0.8888888888888888, "#fdca26"], [1.0, "#f0f921"]], "type": "heatmap"}], "heatmapgl": [{"colorbar": {"outlinewidth": 0, "ticks": ""}, "colorscale": [[0.0, "#0d0887"], [0.1111111111111111, "#46039f"], [0.2222222222222222, "#7201a8"], [0.3333333333333333, "#9c179e"], [0.4444444444444444, "#bd3786"], [0.5555555555555556, "#d8576b"], [0.6666666666666666, "#ed7953"], [0.7777777777777778, "#fb9f3a"], [0.8888888888888888, "#fdca26"], [1.0, "#f0f921"]], "type": "heatmapgl"}], "histogram": [{"marker": {"colorbar": {"outlinewidth": 0, "ticks": ""}}, "type": "histogram"}], "histogram2d": [{"colorbar": {"outlinewidth": 0, "ticks": ""}, "colorscale": [[0.0, "#0d0887"], [0.1111111111111111, "#46039f"], [0.2222222222222222, "#7201a8"], [0.3333333333333333, "#9c179e"], [0.4444444444444444, "#bd3786"], [0.5555555555555556, "#d8576b"], [0.6666666666666666, "#ed7953"], [0.7777777777777778, "#fb9f3a"], [0.8888888888888888, "#fdca26"], [1.0, "#f0f921"]], "type": "histogram2d"}], "histogram2dcontour": [{"colorbar": {"outlinewidth": 0, "ticks": ""}, "colorscale": [[0.0, "#0d0887"], [0.1111111111111111, "#46039f"], [0.2222222222222222, "#7201a8"], [0.3333333333333333, "#9c179e"], [0.4444444444444444, "#bd3786"], [0.5555555555555556, "#d8576b"], [0.6666666666666666, "#ed7953"], [0.7777777777777778, "#fb9f3a"], [0.8888888888888888, "#fdca26"], [1.0, "#f0f921"]], "type": "histogram2dcontour"}], "mesh3d": [{"colorbar": {"outlinewidth": 0, "ticks": ""}, "type": "mesh3d"}], "parcoords": [{"line": {"colorbar": {"outlinewidth": 0, "ticks": ""}}, "type": "parcoords"}], "pie": [{"automargin": true, "type": "pie"}], "scatter": [{"marker": {"colorbar": {"outlinewidth": 0, "ticks": ""}}, "type": "scatter"}], "scatter3d": [{"line": {"colorbar": {"outlinewidth": 0, "ticks": ""}}, "marker": {"colorbar": {"outlinewidth": 0, "ticks": ""}}, "type": "scatter3d"}], "scattercarpet": [{"marker": {"colorbar": {"outlinewidth": 0, "ticks": ""}}, "type": "scattercarpet"}], "scattergeo": [{"marker": {"colorbar": {"outlinewidth": 0, "ticks": ""}}, "type": "scattergeo"}], "scattergl": [{"marker": {"colorbar": {"outlinewidth": 0, "ticks": ""}}, "type": "scattergl"}], "scattermapbox": [{"marker": {"colorbar": {"outlinewidth": 0, "ticks": ""}}, "type": "scattermapbox"}], "scatterpolar": [{"marker": {"colorbar": {"outlinewidth": 0, "ticks": ""}}, "type": "scatterpolar"}], "scatterpolargl": [{"marker": {"colorbar": {"outlinewidth": 0, "ticks": ""}}, "type": "scatterpolargl"}], "scatterternary": [{"marker": {"colorbar": {"outlinewidth": 0, "ticks": ""}}, "type": "scatterternary"}], "surface": [{"colorbar": {"outlinewidth": 0, "ticks": ""}, "colorscale": [[0.0, "#0d0887"], [0.1111111111111111, "#46039f"], [0.2222222222222222, "#7201a8"], [0.3333333333333333, "#9c179e"], [0.4444444444444444, "#bd3786"], [0.5555555555555556, "#d8576b"], [0.6666666666666666, "#ed7953"], [0.7777777777777778, "#fb9f3a"], [0.8888888888888888, "#fdca26"], [1.0, "#f0f921"]], "type": "surface"}], "table": [{"cells": {"fill": {"color": "#EBF0F8"}, "line": {"color": "white"}}, "header": {"fill": {"color": "#C8D4E3"}, "line": {"color": "white"}}, "type": "table"}]}, "layout": {"annotationdefaults": {"arrowcolor": "#2a3f5f", "arrowhead": 0, "arrowwidth": 1}, "coloraxis": {"colorbar": {"outlinewidth": 0, "ticks": ""}}, "colorscale": {"diverging": [[0, "#8e0152"], [0.1, "#c51b7d"], [0.2, "#de77ae"], [0.3, "#f1b6da"], [0.4, "#fde0ef"], [0.5, "#f7f7f7"], [0.6, "#e6f5d0"], [0.7, "#b8e186"], [0.8, "#7fbc41"], [0.9, "#4d9221"], [1, "#276419"]], "sequential": [[0.0, "#0d0887"], [0.1111111111111111, "#46039f"], [0.2222222222222222, "#7201a8"], [0.3333333333333333, "#9c179e"], [0.4444444444444444, "#bd3786"], [0.5555555555555556, "#d8576b"], [0.6666666666666666, "#ed7953"], [0.7777777777777778, "#fb9f3a"], [0.8888888888888888, "#fdca26"], [1.0, "#f0f921"]], "sequentialminus": [[0.0, "#0d0887"], [0.1111111111111111, "#46039f"], [0.2222222222222222, "#7201a8"], [0.3333333333333333, "#9c179e"], [0.4444444444444444, "#bd3786"], [0.5555555555555556, "#d8576b"], [0.6666666666666666, "#ed7953"], [0.7777777777777778, "#fb9f3a"], [0.8888888888888888, "#fdca26"], [1.0, "#f0f921"]]}, "colorway": ["#636efa", "#EF553B", "#00cc96", "#ab63fa", "#FFA15A", "#19d3f3", "#FF6692", "#B6E880", "#FF97FF", "#FECB52"], "font": {"color": "#2a3f5f"}, "geo": {"bgcolor": "white", "lakecolor": "white", "landcolor": "#E5ECF6", "showlakes": true, "showland": true, "subunitcolor": "white"}, "hoverlabel": {"align": "left"}, "hovermode": "closest", "mapbox": {"style": "light"}, "paper_bgcolor": "white", "plot_bgcolor": "#E5ECF6", "polar": {"angularaxis": {"gridcolor": "white", "linecolor": "white", "ticks": ""}, "bgcolor": "#E5ECF6", "radialaxis": {"gridcolor": "white", "linecolor": "white", "ticks": ""}}, "scene": {"xaxis": {"backgroundcolor": "#E5ECF6", "gridcolor": "white", "gridwidth": 2, "linecolor": "white", "showbackground": true, "ticks": "", "zerolinecolor": "white"}, "yaxis": {"backgroundcolor": "#E5ECF6", "gridcolor": "white", "gridwidth": 2, "linecolor": "white", "showbackground": true, "ticks": "", "zerolinecolor": "white"}, "zaxis": {"backgroundcolor": "#E5ECF6", "gridcolor": "white", "gridwidth": 2, "linecolor": "white", "showbackground": true, "ticks": "", "zerolinecolor": "white"}}, "shapedefaults": {"line": {"color": "#2a3f5f"}}, "ternary": {"aaxis": {"gridcolor": "white", "linecolor": "white", "ticks": ""}, "baxis": {"gridcolor": "white", "linecolor": "white", "ticks": ""}, "bgcolor": "#E5ECF6", "caxis": {"gridcolor": "white", "linecolor": "white", "ticks": ""}}, "title": {"x": 0.05}, "xaxis": {"automargin": true, "gridcolor": "white", "linecolor": "white", "ticks": "", "title": {"standoff": 15}, "zerolinecolor": "white", "zerolinewidth": 2}, "yaxis": {"automargin": true, "gridcolor": "white", "linecolor": "white", "ticks": "", "title": {"standoff": 15}, "zerolinecolor": "white", "zerolinewidth": 2}}}, "title": {"text": "Estimated Immunity in Wisconsin"}, "width": 700, "xaxis": {"anchor": "y", "domain": [0.0, 1.0], "range": [0, 105], "title": {"text": "Immune %"}}, "yaxis": {"anchor": "x", "domain": [0.0, 1.0], "title": {"text": ""}}},                        {"responsive": true}                    )                };                            </script>        </div>
 </body>
 </html>
